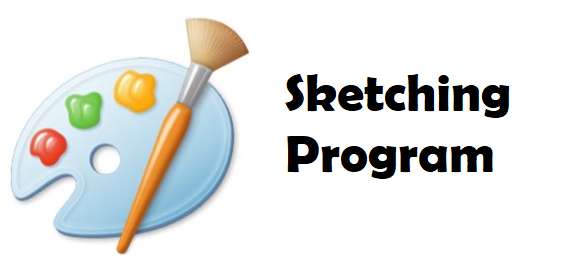
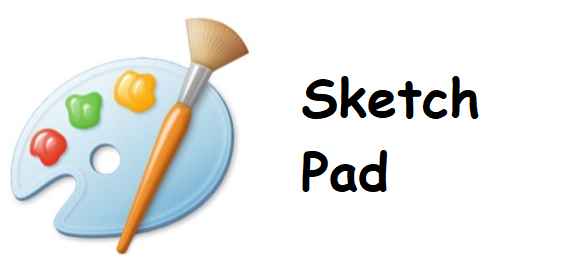
added pathfinding

Changed region(s): [[0.4831, 0.2618, 0.9059, 0.4364], [0.4831, 0.4945, 0.8757, 0.6982]]

diff --git a/index.html b/index.html
@@ -107,7 +107,7 @@
                      <div class="modal-content">
                         <span class="close">&times;</span> 
                         <div class="left_text">
-                            <h2>Sketch Program</h2>
+                            <h2>Sketch Pad</h2>
                             <p>A simple version of a sketching program, inspired by Microsoft Paint.</p>
                             <p>The program was written in Python using Pygame library. This
                                 beginner-level project is as an introduction to the Pygame library and GUI 
@@ -159,7 +159,34 @@
             </div>
             <div class="work__container">
                 <div class="work__img">
-                    <img id="myBtn3"src="https://media.giphy.com/media/gizZvICXsQn2g6JajG/source.gif" alt="">
+                    <img id="myBtn3"src="./assets/img/pathfinding.png" alt="">
+                </div>
+                <!-- The Modal -->
+                <div id="myModal3" class="modal">
+                    <div class="modal-content">
+                       <span class="close3">&times;</span>
+                       <div class="left_text">
+                           <h2>PathFinding</h2>
+                           <p>This program uses the Pathfinding library to utilise the A* Search algorithm. Pygame was also 
+                               used to create the GUI and user controls.
+                           </p>
+                           <p2>Check it out here at <a href="https://github.com/jchai5/pathfinding" class="">Github</a>! </p2> 
+                           <h2>Tools Used</h2>
+                            <ul>Python</ul>
+                            <h2>Difficulty</h2>
+                            <img src="./assets/img/stars/4star.png" alt="">
+                       </div>
+                       <div class="right_gif">
+                           <img src="./assets/img/pathfinding.gif" alt="">
+                       </div>
+                    </div>
+                </div>
+
+            </div>
+
+            <div class="work__container">
+                <div class="work__img">
+                    <img id="myBtn4"src="https://media.giphy.com/media/gizZvICXsQn2g6JajG/source.gif" alt="">
                 </div>
                 <!-- The Modal -->
                 <div id="myModal3" class="modal">
